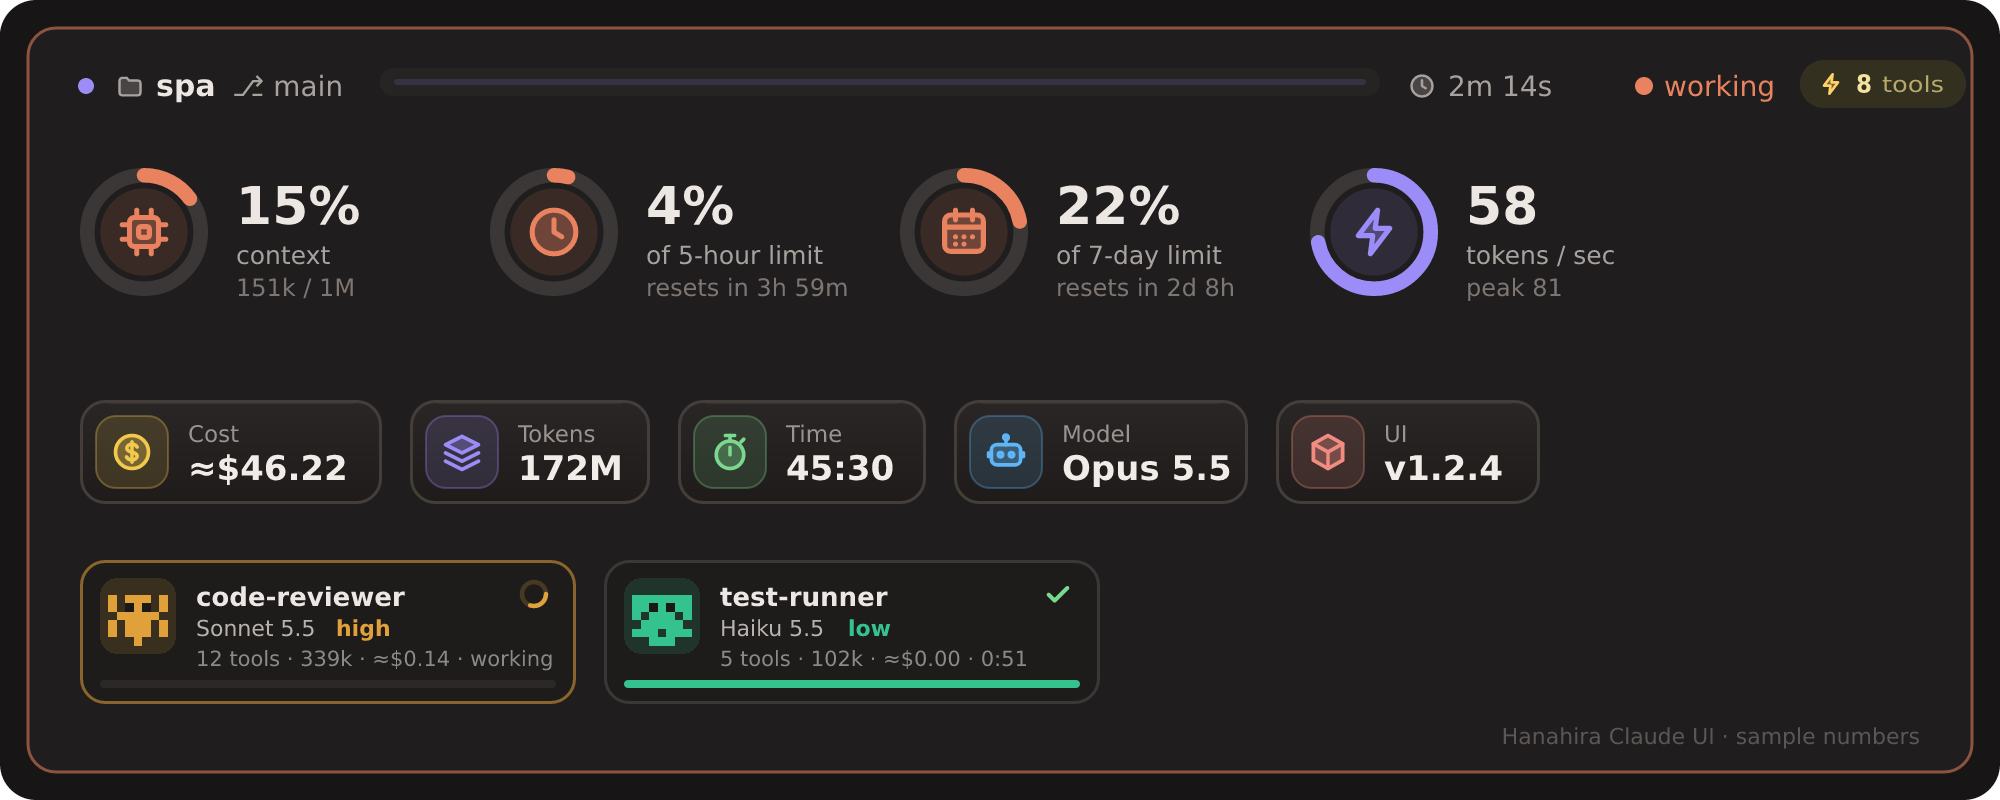
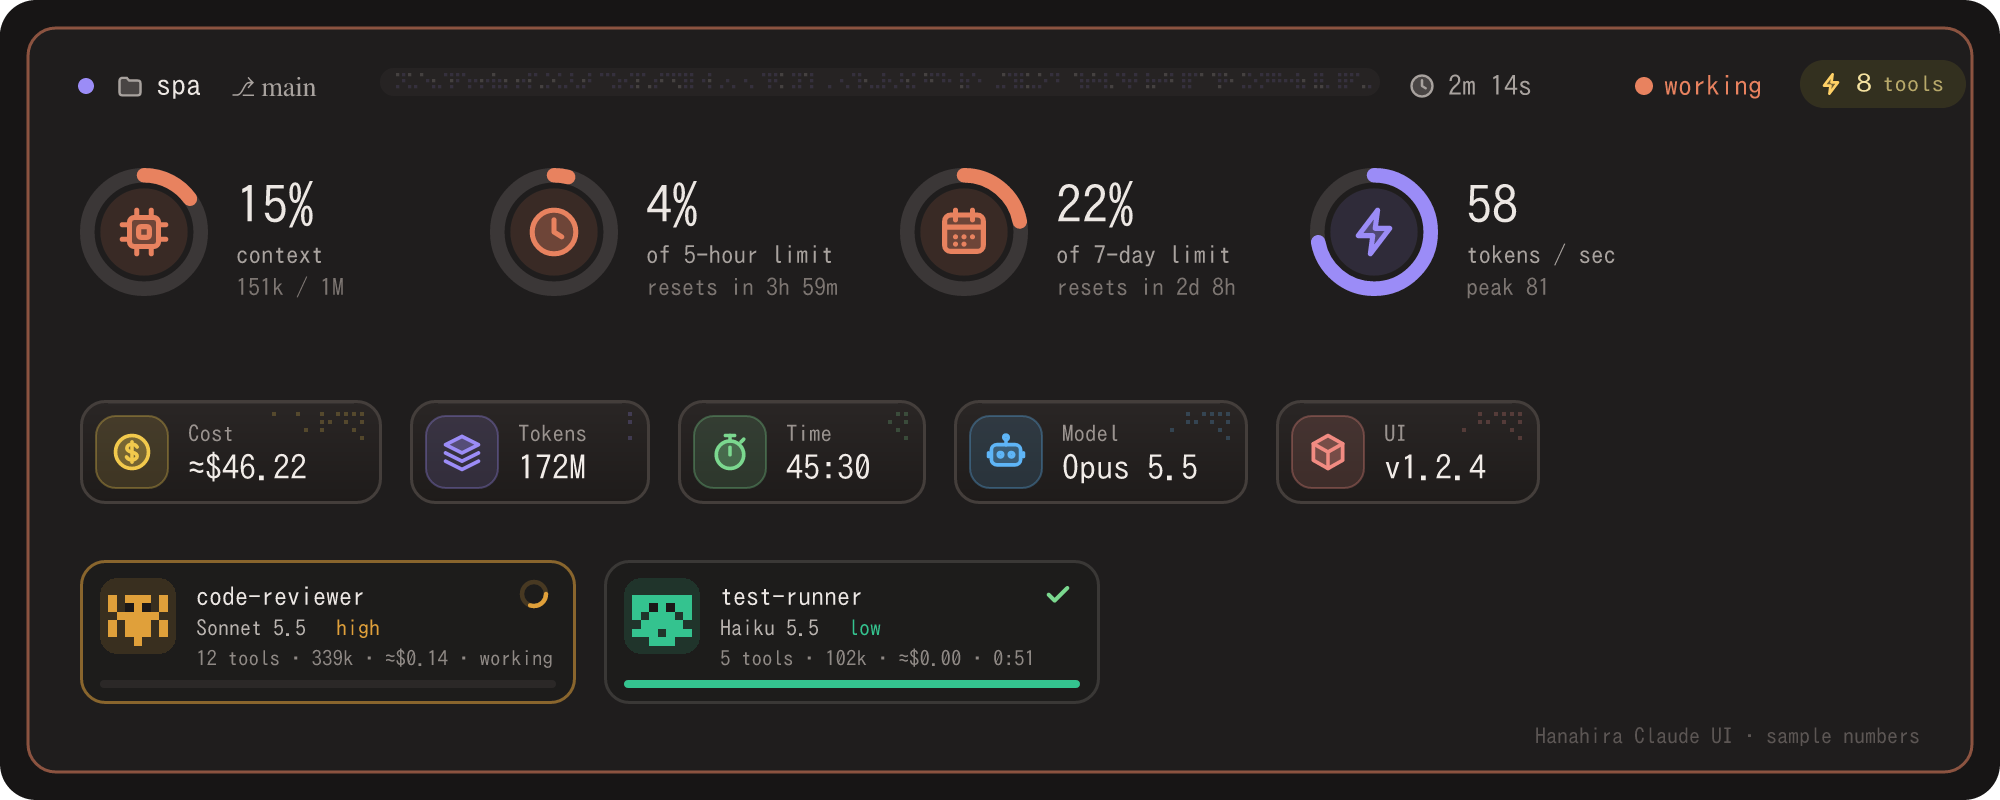
Band: a dotted loading track and a halftone corner on cards
The activity bar's comet-in-a-groove gives way to a dark track
sprinkled with faint dots. While a turn runs, a soft glow sweeps
across it through a mask and lights a dithered field of accent dots
as it passes.

Each stat card gets one ornament: a faint halftone of square dots in
its icon colour that gathers toward the top-right corner and starts
past the label, so no dot sits on text.

Both patterns come from a small deterministic hash (noise), so the
once-a-second redraw paints the same dots every time. preview.svg and
preview.png are regenerated to match.

diff --git a/hooks/chat.ts b/hooks/chat.ts
@@ -211,6 +211,13 @@ export const countChanges = (rows: DiffRow[]) => ({
   removed: rows.filter(r => r.sign === '-').length,
 })
 
+// A cheap deterministic hash in [0, 1): the same bar draws the same dots every time.
+const noise = (x: number, y: number) => {
+  let h = (x * 374761393 + y * 668265263) >>> 0
+  h = ((h ^ (h >>> 13)) * 1274126177) >>> 0
+  return ((h ^ (h >>> 16)) >>> 0) / 4294967296
+}
+
 /** The surface every card and chart sits on: a soft top-lit gradient and a hairline edge. */
 export const PANEL = { top: '#2a2625', bottom: '#1e1b1a', edge: '#443e3b', glow: '#ffffff' }
 
@@ -224,6 +231,38 @@ export const panelSvg = (id: string, width: number, height: number, rx = 12, edg
   `<rect x="0.5" y="0.5" width="${width - 1}" height="${height - 1}" rx="${rx}" fill="url(#${id})"/>` +
   `<path d="M${rx + 2} 1.5H${width - rx - 2}" stroke="${PANEL.glow}" stroke-opacity="0.05" stroke-width="1"/>` +
   `<rect x="0.75" y="0.75" width="${width - 1.5}" height="${height - 1.5}" rx="${rx}" fill="none" stroke="${PANEL.edge}" stroke-width="1.5">${edgeAnim}</rect>`
+
+/**
+ * The band's one ornament: a faint halftone of square dots that gathers toward the
+ * top-right corner of the box (x1, y0) and thins to nothing a quarter-circle away.
+ * Deterministic, so a redraw gives the same picture.
+ */
+export const halftone = (
+  x0: number,
+  y0: number,
+  x1: number,
+  y1: number,
+  opts: { step?: number; color?: string; opacity?: number; corner?: 'tr' | 'br' } = {},
+) => {
+  const step = opts.step ?? 4
+  const size = +(step * 0.5).toFixed(2)
+  const cols = Math.floor((x1 - x0) / step)
+  const rows = Math.floor((y1 - y0) / step)
+  const cells: string[] = []
+  for (let cx = 0; cx < cols; cx++) {
+    for (let ry = 0; ry < rows; ry++) {
+      const dx = cx / Math.max(1, cols - 1)
+      const dy = ry / Math.max(1, rows - 1)
+      // Full at the corner, gone a quarter-circle away; the noise thins it between.
+      const t = Math.pow(Math.max(0, 1 - Math.hypot(dx, dy)), 1.3)
+      if (noise(cx + 101, ry + 7) >= t) continue
+      const x = x1 - (cx + 1) * step
+      const y = opts.corner === 'br' ? y1 - (ry + 1) * step : y0 + ry * step
+      cells.push(`M${x.toFixed(1)} ${y.toFixed(1)}h${size}v${size}h-${size}z`)
+    }
+  }
+  return cells.length > 0 ? `<path d="${cells.join('')}" fill="${opts.color ?? '#b8b0ab'}" fill-opacity="${opts.opacity ?? 0.16}"/>` : ''
+}
 
 /** ≈-free money for a stat card: always two decimals, $15.62. */
 export const fmtCost = (usd: number) => `$${usd.toFixed(2)}`
@@ -318,12 +357,11 @@ export const pillSvg = (text: string, fg: string, bg: string, height = 24, runni
 }
 
 /**
- * The band's activity bar, with no number behind it: a dark capsule holding a slim groove.
- * While `live`, a soft comet of the accent glides along the groove, easing in and out, with a
- * faint halo under it. Idle, it is just the quiet groove.
+ * A loading bar with no number behind it: a dark rounded track sprinkled with faint
+ * dots and, while `live`, a soft glow that sweeps across it, lighting a dithered
+ * field of violet dots as it passes. Idle, it is just the quiet track.
  *
- * The glide is SMIL, which a surface plays only for an `isInteractive` Svg. The picture is the
- * same for the same size, so the band's once-a-second redraw does not restart it.
+ * The sweep is SMIL, which a surface plays only for an `isInteractive` Svg.
  * `padBottom` adds transparent room under the bar, in px.
  */
 export const loadingSvg = (
@@ -336,29 +374,45 @@ export const loadingSvg = (
   const h = height
   const pad = Math.max(0, Math.round(opts.padBottom ?? 0))
   const uid = `l${w}_${h}` // ids stay unique if two bars ever share a document
-  const inset = Math.round(h / 2)
-  const gh = Math.max(3, Math.round(h * 0.24)) // groove height
-  const gy = (h - gh) / 2
-  const gw = w - 2 * inset
-  const comet = Math.round(gw * 0.32)
-  const ease = 'calcMode="spline" keyTimes="0;1" keySplines="0.65 0 0.35 1"'
-  const glide = `<animate attributeName="x" from="${inset - comet}" to="${inset + gw}" dur="1.8s" repeatCount="indefinite" ${ease}/>`
-  const live = opts.live
+  const step = Math.max(3, Math.round(h / 6.5))
+  const size = +(step * 0.55).toFixed(2)
+  const rows = Math.max(1, Math.floor((h - 4) / step))
+  const top = (h - rows * step) / 2
+
+  const faint: string[] = []
+  const bright: string[] = []
+  const dim: string[] = []
+  for (let cx = 0; cx * step + step < w - 6; cx++) {
+    const x = 8 + cx * step
+    for (let ry = 0; ry < rows; ry++) {
+      const r = noise(cx, ry)
+      const y = top + ry * step
+      const cell = `M${x} ${y.toFixed(1)}h${size}v${size}h-${size}z`
+      if (r < 0.1) faint.push(cell)
+      if (r < 0.74) (r < 0.36 ? bright : dim).push(cell)
+    }
+  }
+
+  const gw = Math.round(w * 0.4)
+  const sweep = opts.live
     ? `<defs>` +
-      `<linearGradient id="${uid}g" x1="0" x2="1" y1="0" y2="0"><stop offset="0" stop-color="${color}" stop-opacity="0"/><stop offset="0.7" stop-color="${color}" stop-opacity="0.9"/><stop offset="1" stop-color="${color}" stop-opacity="0"/></linearGradient>` +
-      `<clipPath id="${uid}c"><rect x="${inset}" y="${gy}" width="${gw}" height="${gh}" rx="${gh / 2}"/></clipPath>` +
-      `<clipPath id="${uid}t"><rect width="${w}" height="${h}" rx="${h / 2}"/></clipPath>` +
-      `</defs>` +
-      // The halo: the same comet, wider and faint, on the capsule.
-      `<g clip-path="url(#${uid}t)"><rect x="${inset - comet}" y="0" width="${comet}" height="${h}" fill="url(#${uid}g)" opacity="0.16">${glide}</rect></g>` +
-      `<g clip-path="url(#${uid}c)"><rect x="${inset - comet}" y="${gy}" width="${comet}" height="${gh}" fill="url(#${uid}g)">${glide}</rect></g>`
+      `<linearGradient id="${uid}g" x1="0" x2="1" y1="0" y2="0"><stop offset="0" stop-color="#fff" stop-opacity="0"/><stop offset="0.5" stop-color="#fff" stop-opacity="1"/><stop offset="1" stop-color="#fff" stop-opacity="0"/></linearGradient>` +
+      `<mask id="${uid}m" maskUnits="userSpaceOnUse" x="0" y="0" width="${w}" height="${h}">` +
+      `<rect x="${-gw}" y="0" width="${gw}" height="${h}" fill="url(#${uid}g)"><animate attributeName="x" from="${-gw}" to="${w}" dur="1.9s" repeatCount="indefinite"/></rect>` +
+      `</mask></defs>` +
+      `<g mask="url(#${uid}m)">` +
+      `<rect width="${w}" height="${h}" rx="${h / 2}" fill="${color}" fill-opacity="0.2"/>` +
+      `<path d="${bright.join('')}" fill="${color}" fill-opacity="0.95"/>` +
+      `<path d="${dim.join('')}" fill="${color}" fill-opacity="0.55"/>` +
+      `</g>`
     : ''
 
   return (
     `<svg xmlns="http://www.w3.org/2000/svg" viewBox="0 0 ${w} ${h + pad}" width="${w}" height="${h + pad}">` +
     `<rect width="${w}" height="${h}" rx="${h / 2}" fill="#262323"/>` +
-    `<rect x="${inset}" y="${gy}" width="${gw}" height="${gh}" rx="${gh / 2}" fill="${color}" fill-opacity="${opts.live ? 0.14 : 0.08}"/>` +
-    live +
+    `<path d="${dim.join('')}" fill="${color}" fill-opacity="0.12"/>` +
+    `<path d="${faint.join('')}" fill="#8a8480" fill-opacity="0.3"/>` +
+    sweep +
     `</svg>`
   )
 }
@@ -424,6 +478,8 @@ export const cardSvg = (
   const svg =
     `<svg xmlns="http://www.w3.org/2000/svg" viewBox="0 0 ${width} ${height}" width="${width}" height="${height}">` +
     panelSvg('cardg', width, height, 12, border) +
+    // The halftone gathers in the top-right corner and starts past the label, so no dot sits on text.
+    halftone(Math.max(Math.round(width * 0.45), Math.ceil(textX + labelWidth(label, 11.5) + 6)), 6, width - 7, 27, { color: iconColor, opacity: 0.22 }) +
     tile +
     `<text x="${textX}" y="21" font-family="ui-sans-serif,system-ui,sans-serif" font-size="11.5" fill="#9a938f">${esc(label)}</text>` +
     `<text x="${textX}" y="40" font-family="ui-sans-serif,system-ui,sans-serif" font-size="17" font-weight="700" fill="#f1ece8">${esc(value)}${rise}</text>` +

diff --git a/hooks/chat.test.ts b/hooks/chat.test.ts
@@ -203,24 +203,18 @@ describe('running pill animation', () => {
 
 
 describe('loadingSvg', () => {
-  test('idle is a quiet groove: no animation, no clip', () => {
+  test('idle is a quiet track: no animation, no mask', () => {
     const svg = loadingSvg(500, 18, '#9b8cf7')
     expect(svg).toContain('width="500" height="18"')
     expect(svg).not.toContain('<animate')
-    expect(svg).not.toContain('clipPath')
+    expect(svg).not.toContain('<mask')
   })
 
-  test('live glides an eased comet along the groove, one way', () => {
+  test('live sweeps a soft glow across the track', () => {
     const svg = loadingSvg(500, 18, '#9b8cf7', { live: true })
-    expect(svg).toContain('<clipPath id="l500_18c"')
-    // groove from 9 to 491 (482 wide), comet 32% of it: starts just left of the groove, ends past it
-    expect(svg).toContain('<animate attributeName="x" from="-145" to="491"')
-    expect(svg).toContain('keySplines="0.65 0 0.35 1"')
+    expect(svg).toContain('<mask id="l500_18m"')
+    expect(svg).toContain('<animate attributeName="x" from="-200" to="500"')
     expect(svg).toContain('repeatCount="indefinite"')
-  })
-
-  test('draws no dither: the groove is one shape', () => {
-    expect(loadingSvg(500, 18, '#9b8cf7')).not.toContain('h1.')
   })
 
   test('draws no number: no label, no pill', () => {
@@ -306,8 +300,9 @@ describe('icons', () => {
     expect(cardSvg('Cost', '$1').svg).toContain('x="14" y="21"')
   })
 
-  test('the card has no halftone texture', () => {
-    expect(cardSvg('Cost', '$1', { icon: 'coin' }).svg).not.toMatch(/h\d+(\.\d+)?v\d/)
+  test('the card carries the halftone texture in its own colour', () => {
+    const svg = cardSvg('Cost', '$1', { icon: 'coin', iconColor: '#f2c94c' }).svg
+    expect(svg).toMatch(/<path d="M[^"]*h2v2h-2z[^"]*" fill="#f2c94c" fill-opacity="0.22"\/>/)
   })
 })
 
